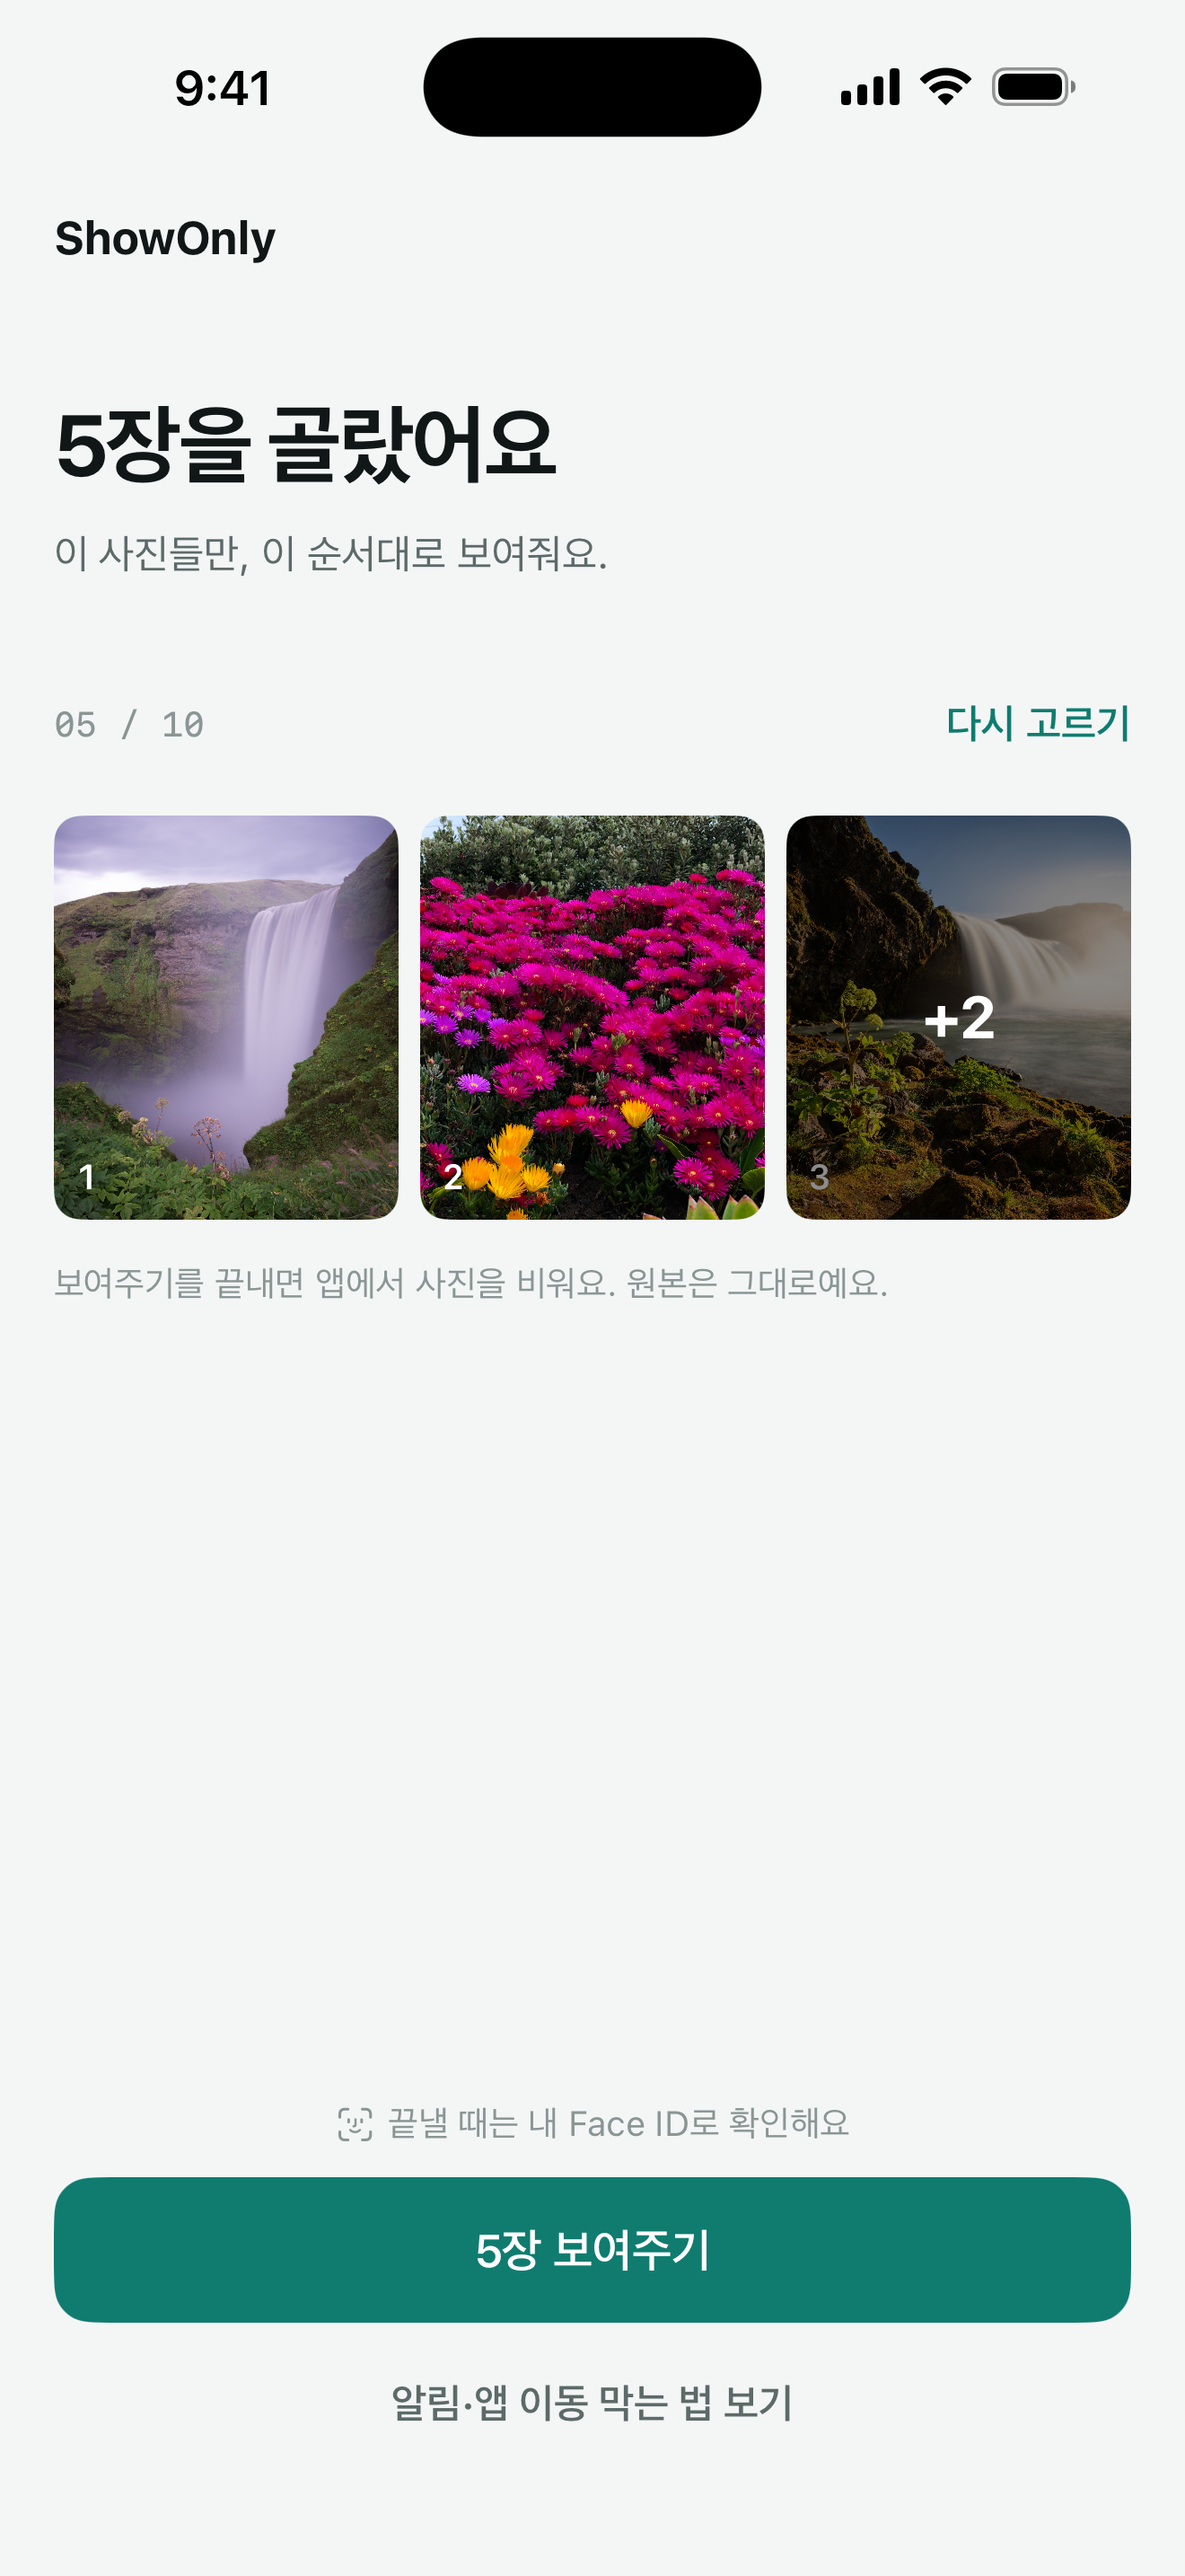
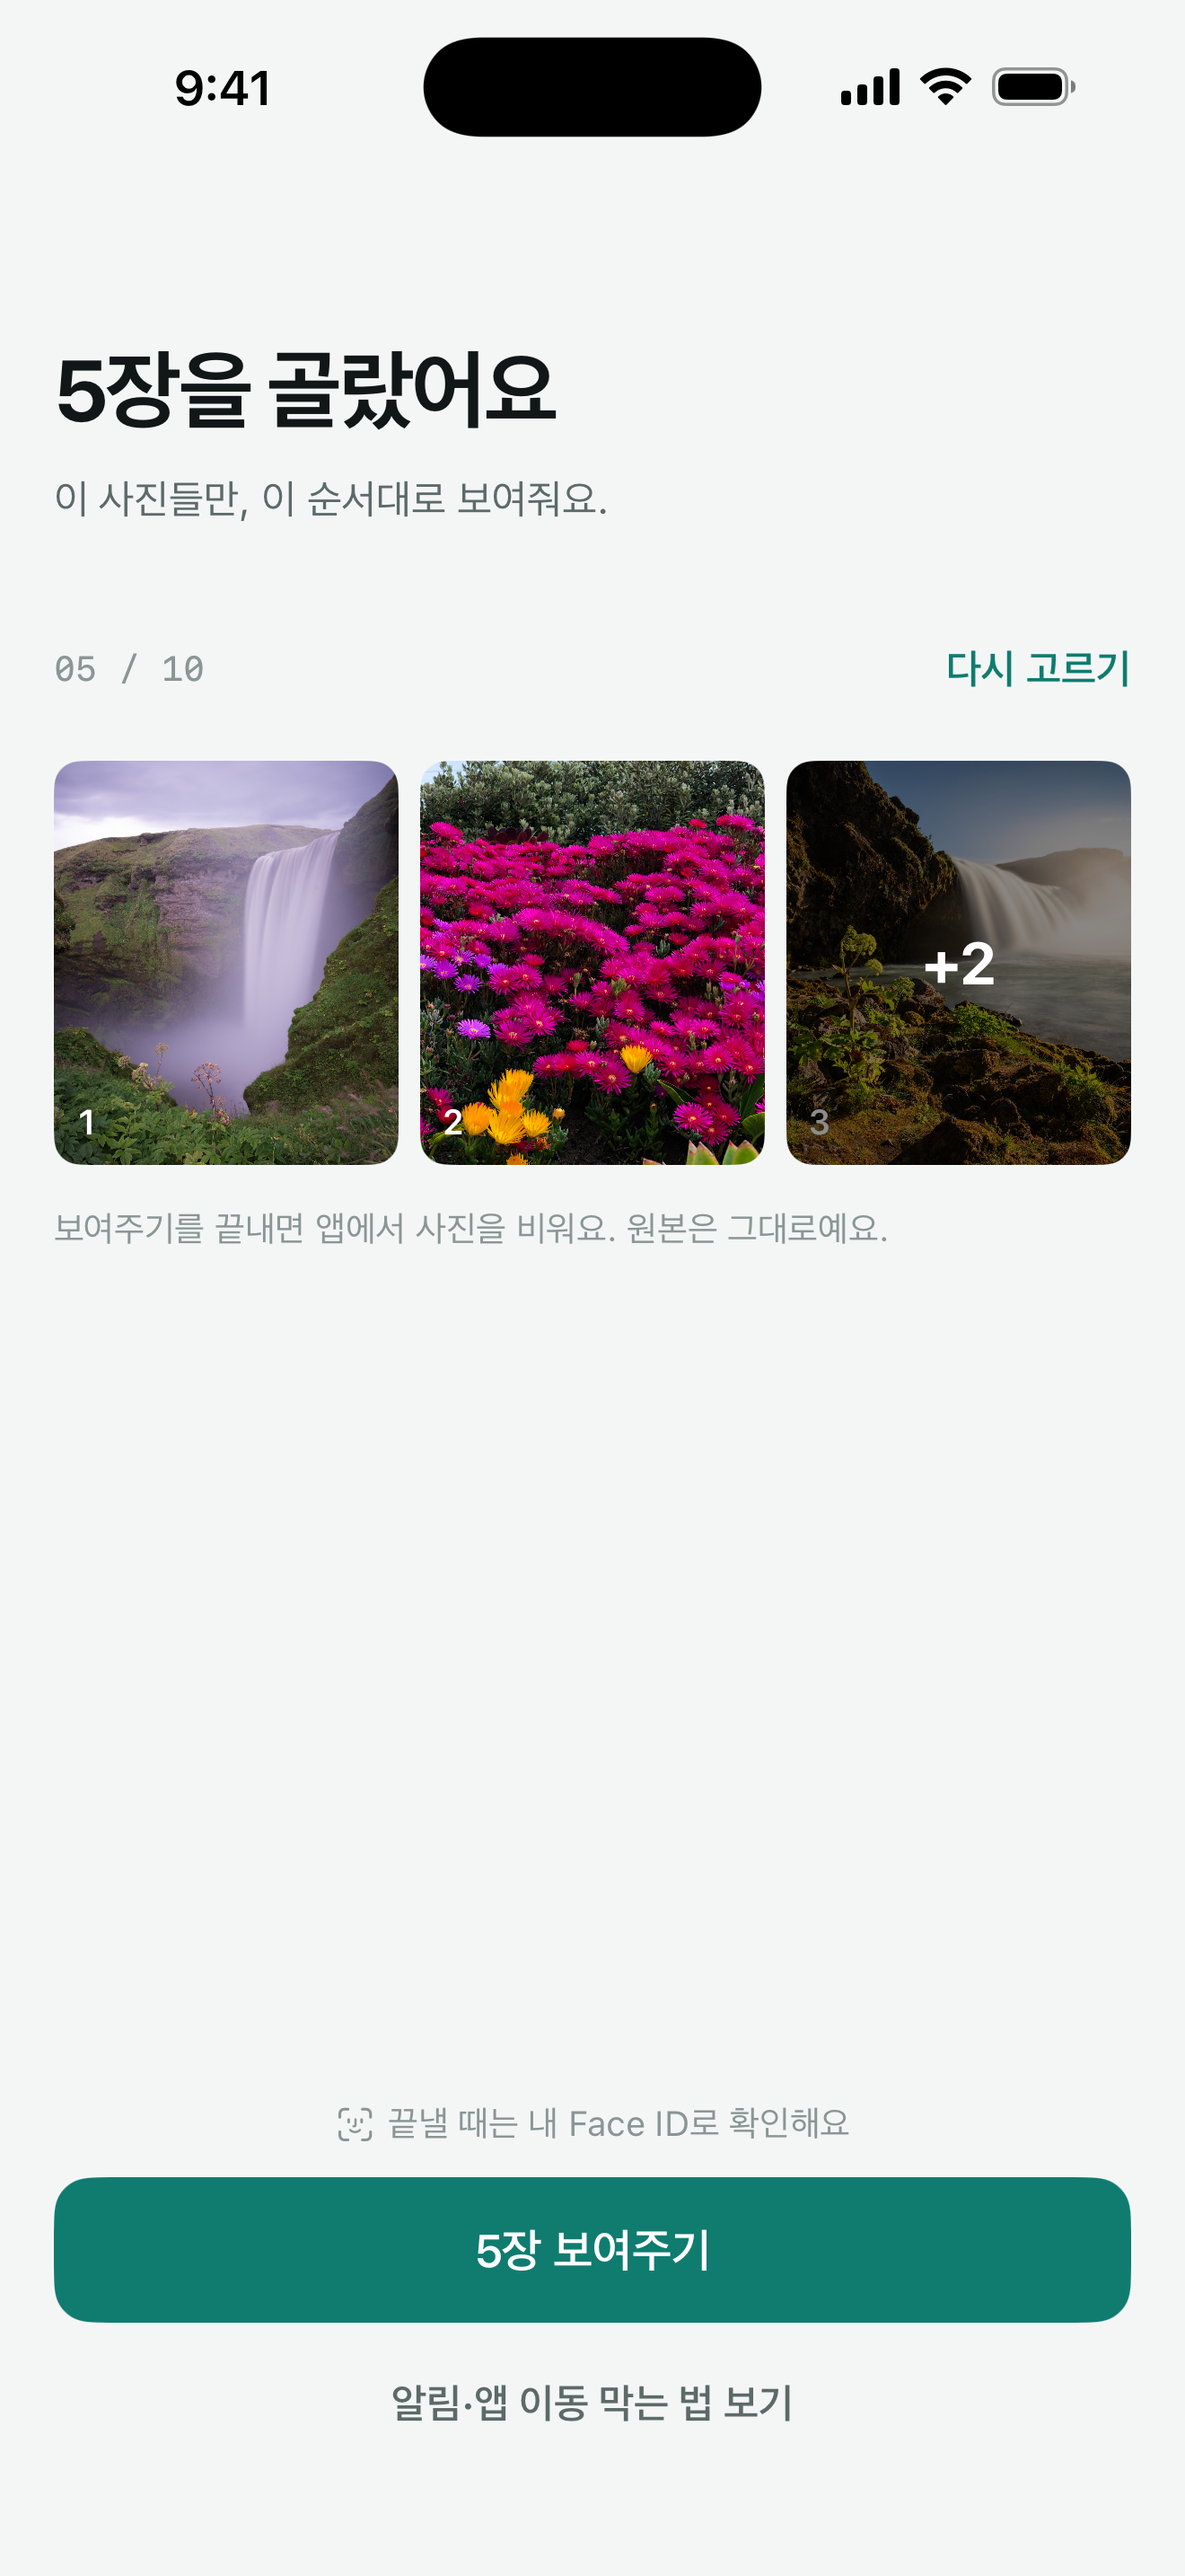
Rename app to '딱 이 사진만', drop in-app wordmark
Display name is now 딱 이 사진만, the Focus automation step names it,
and the home screen no longer shows the app name as text. App Store
screenshots are recaptured to match.

Changed region(s): [[0.0311, 0.2483, 0.9629, 0.5275], [0.0311, 0.0621, 0.497, 0.2172]]

diff --git a/ShowOnly/Features/Home/HomeView.swift b/ShowOnly/Features/Home/HomeView.swift
@@ -113,12 +113,6 @@ private struct HomeContent: View {
     var body: some View {
         ScrollView {
             VStack(alignment: .leading, spacing: 0) {
-                Text("ShowOnly")
-                    .font(Theme.Fonts.wordmark)
-                    .foregroundStyle(Theme.Colors.text)
-                    .padding(.top, Theme.Spacing.s4)
-                    .accessibilityAddTraits(.isHeader)
-
                 VStack(alignment: .leading, spacing: Theme.Spacing.s3) {
                     Text(headline)
                         .font(Theme.Fonts.largeTitle)
@@ -132,7 +126,7 @@ private struct HomeContent: View {
                         .lineSpacing(3)
                         .fixedSize(horizontal: false, vertical: true)
                 }
-                .padding(.top, Theme.Spacing.s6 + Theme.Spacing.s4)
+                .padding(.top, Theme.Spacing.s6 + Theme.Spacing.s6)
 
                 if snapshot.isEmpty {
                     emptyBody

diff --git a/ShowOnly/Features/Settings/ProtectionGuideView.swift b/ShowOnly/Features/Settings/ProtectionGuideView.swift
@@ -28,7 +28,7 @@ struct ProtectionGuideView: View {
                         steps: [
                             "설정 → 집중 모드 → + → 사용자 설정",
                             "알림을 허용할 사람과 앱을 모두 빼요",
-                            "자동화 → 앱 → ‘ShowOnly’를 선택해요"
+                            "자동화 → 앱 → ‘딱 이 사진만’을 선택해요"
                         ],
                         limit: "카카오톡 같은 다른 앱 알림은 이 앱이 직접 막을 수 없어요. 긴급 알림처럼 예외로 뜨는 알림도 있어요."
                     )

diff --git a/ShowOnly/DesignSystem/Theme.swift b/ShowOnly/DesignSystem/Theme.swift
@@ -43,7 +43,6 @@ enum Theme {
         static let lockTitle = Font.system(size: 34, weight: .bold)
         static let title = Font.system(size: 22, weight: .bold)
         static let section = Font.system(size: 19, weight: .bold)
-        static let wordmark = Font.system(size: 17, weight: .bold)
         static let body = Font.system(size: 16)
         static let bodyEmphasis = Font.system(size: 17, weight: .semibold)
         static let subhead = Font.system(size: 15)

diff --git a/design/README.md b/design/README.md
@@ -1,6 +1,6 @@
 # ShowOnly 디자인 (A · Quiet Shield)
 
-- 앱 이름: ShowOnly (영문 워드마크, "이것만 봐"는 사용 안 함)
+- 앱 이름: 딱 이 사진만 (홈 화면 아이콘 아래 이름. 앱 안에는 이름을 텍스트로 넣지 않음)
 
 - 원본: `show-only.pen` (Pen.app). 상단은 후보 A/B/C, 아래가 최종 A.
 - 화면: Home / Empty, Home / Selected, Viewer, Lock / Default, Lock / Auth Failed, Protection Guide
